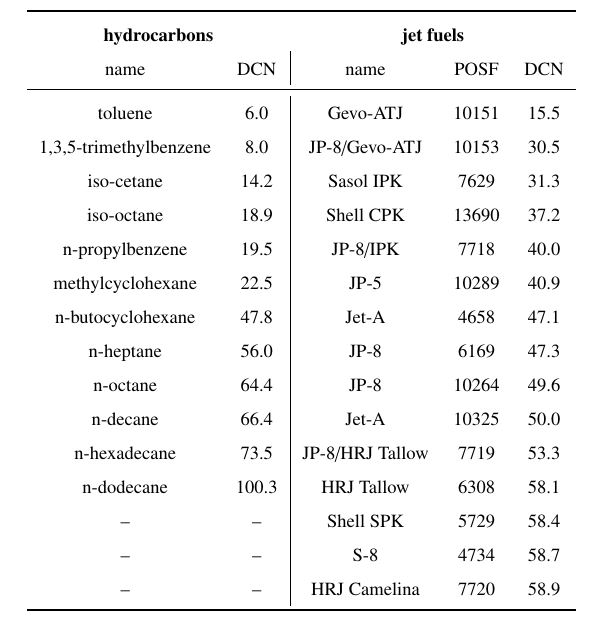
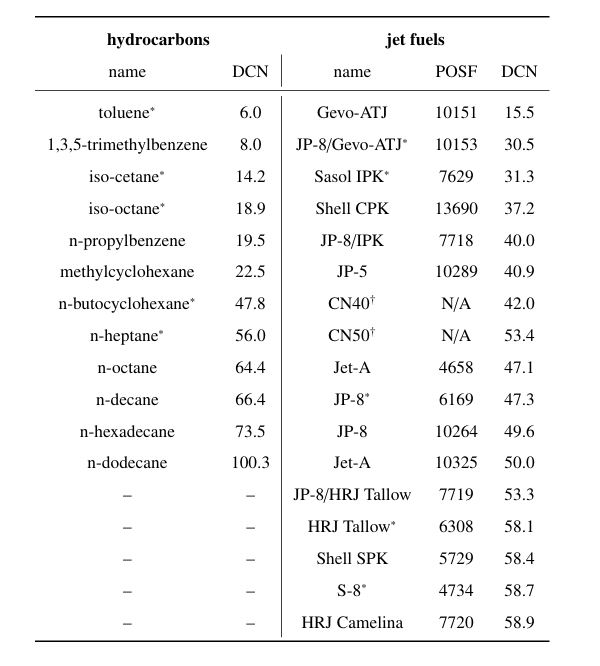
update 0.645 T data README and table

Changed region(s): [[0.06, 0.0, 0.93, 0.7968], [0.06, 0.8274, 0.96, 1.0], [0.48, 0.5516, 0.72, 0.7968]]

diff --git a/data/0.645_Tesla_magnet/README.md b/data/0.645_Tesla_magnet/README.md
@@ -1,11 +1,11 @@
 # 0.645 Tesla magnet
-This dataset was collected using a 0.645 Tesla magnet at 27.5 MHz. It contains a total of 101 T2 relaxation curves probed from 12 pure hydrocarbon and 15 jet fuel samples. The derived cetane number (DCN) of all samples are also provided. The T2 relaxation curves were acquired using a compact time-domain nuclear magnetic resonance (TD-NMR) system located at the University of South Carolina, Columbia, USA [1]. 
+This dataset was collected using a 0.645 Tesla magnet at 27.5 MHz. It contains a total of 161 T2 relaxation curves probed from 12 pure hydrocarbon and 17 jet fuel samples. The derived cetane number (DCN) of all samples are also provided. The T2 relaxation curves were acquired using a compact time-domain nuclear magnetic resonance (TD-NMR) system located at the University of South Carolina, Columbia, USA [1]. 
 
 ## Data
 
-All of the T2 relaxation data is provided in a single excel file. The first two sheets of the excel file contain hydrocarbon and jet fuel T2 curve data, while the third sheet summarizes the DCN of the samples. The code example.m gives an example of how to read data from the excel file and make some plots in MATLAB. 
+All of the T2 relaxation data is provided in excels file. The first two sheets of the training and validation data excel files contain hydrocarbon and jet fuel T2 curve data. The third sheet of the training data excel file summarizes the DCN of the samples. The code example.m gives an example of how to read data and make some plots in MATLAB. 
 
-Table 1: The 12 hydrocarbon and 15 jet fuel samples used to generate datasets. Reported DCN values are subject to small uncertainties (approximately $\pm1$).
+Table 1: The 12 hydrocarbon and 17 jet fuel samples used to generate datasets. Reported DCN values are subject to small uncertainties (approximately $\pm1$) $^\ast$Reprobed for validation data. $^\dagger$Test samples.
 <p align="center">
 <img src="../../images/dataTable.JPG" alt="Hydrocarbon and jet fuel samples used for dataset generation." width="400"/> <br> 
 </p>
